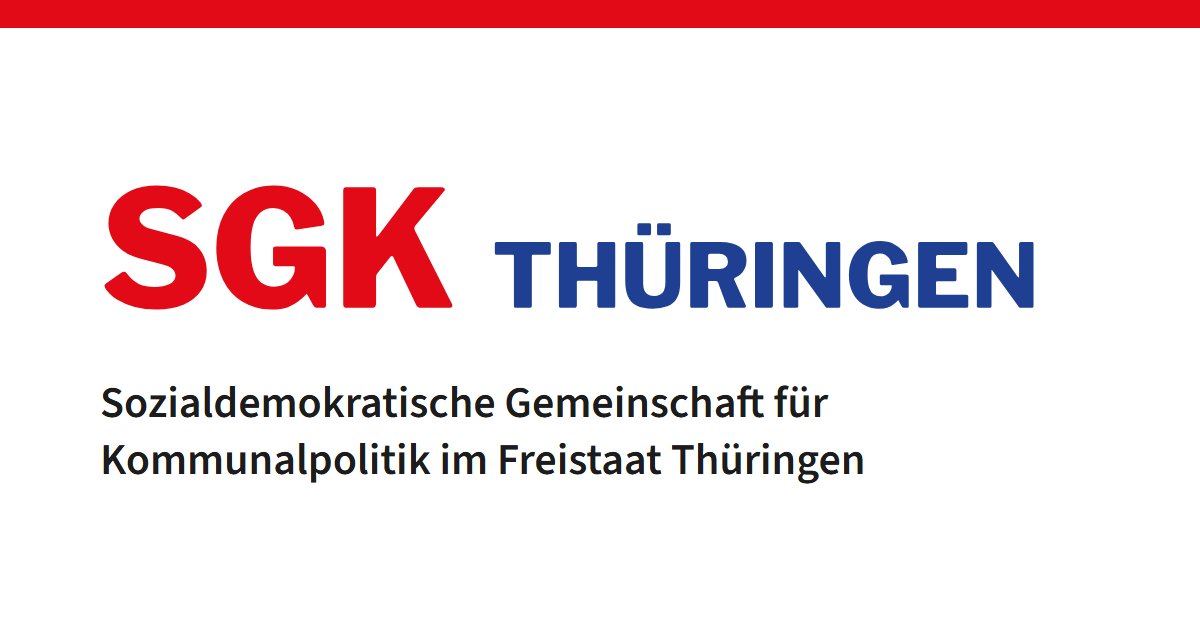
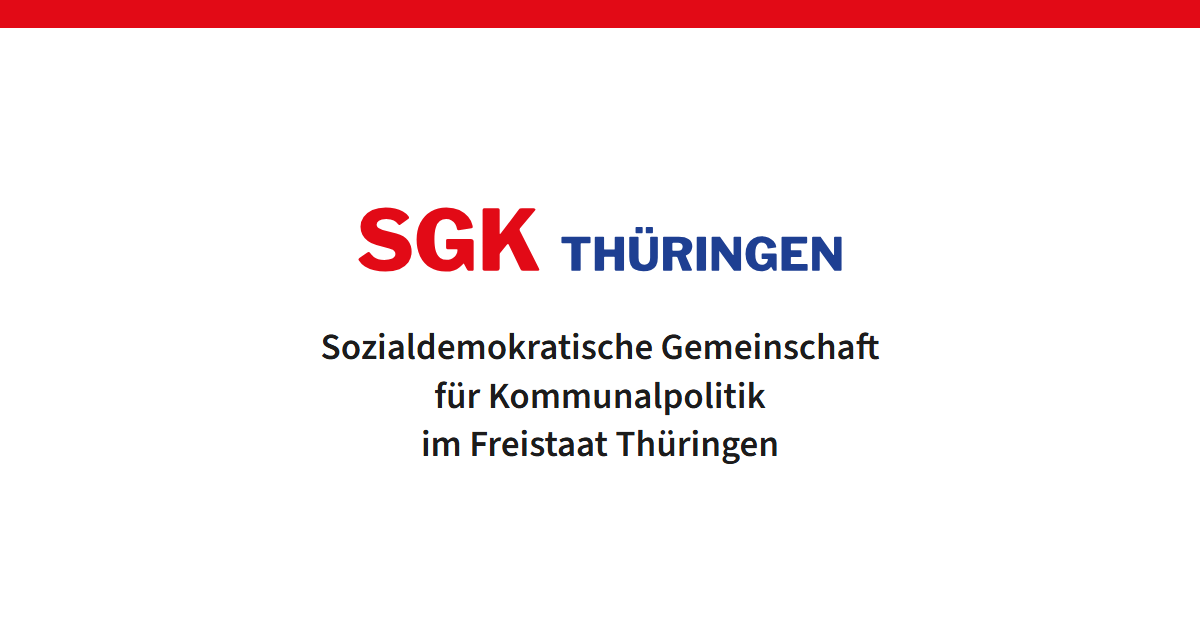
Vorschaubild: Inhalt in die Mitte gesetzt, og:image mit Version
Wortmarke und Text liegen jetzt im mittleren Quadrat 630x630, damit das Bild auch bei quadratischem Mittelzuschnitt (z. B. WhatsApp Web) vollständig lesbar ist. og:image trägt ?v=2, damit Vorschau-Caches das neue Bild laden.

Changed region(s): [[0.0925, 0.2714, 0.8633, 0.573], [0.0617, 0.6032, 0.74, 0.7841]]

diff --git a/index.html b/index.html
@@ -12,7 +12,7 @@
   <meta property="og:title" content="SGK Thüringen – Sozialdemokratische Gemeinschaft für Kommunalpolitik">
   <meta property="og:description" content="Die SGK Thüringen bringt sozialdemokratische Grundsätze in die Kommunalpolitik: Fachtagungen, Austausch, Beratung. Informiere dich und werde Mitglied.">
   <meta property="og:url" content="https://sgk-thueringen.de/">
-  <meta property="og:image" content="https://sgk-thueringen.de/assets/og-sgk-thueringen.png">
+  <meta property="og:image" content="https://sgk-thueringen.de/assets/og-sgk-thueringen.png?v=2">
   <meta property="og:image:width" content="1200">
   <meta property="og:image:height" content="630">
   <meta property="og:image:alt" content="SGK Thüringen – Sozialdemokratische Gemeinschaft für Kommunalpolitik">

diff --git a/jet-foerderpreis/index.html b/jet-foerderpreis/index.html
@@ -12,7 +12,7 @@
 <meta property="og:title" content="Förderpreis für Kinder- und Jugendbeteiligung – SGK Thüringen">
 <meta property="og:description" content="Kinder und Jugendliche haben Ideen, wollen mitreden und ihre Heimat aktiv mitgestalten. Genau dieses Engagement möchten wir sichtbar machen und fördern.">
 <meta property="og:url" content="https://sgk-thueringen.de/jet-foerderpreis/">
-<meta property="og:image" content="https://sgk-thueringen.de/assets/og-sgk-thueringen.png">
+<meta property="og:image" content="https://sgk-thueringen.de/assets/og-sgk-thueringen.png?v=2">
 <meta property="og:image:width" content="1200">
 <meta property="og:image:height" content="630">
 <meta property="og:image:alt" content="SGK Thüringen – Sozialdemokratische Gemeinschaft für Kommunalpolitik">

diff --git a/newsletter/index.html b/newsletter/index.html
@@ -12,7 +12,7 @@
 <meta property="og:title" content="Info-Brief – SGK Thüringen">
 <meta property="og:description" content="Der Info-Brief der SGK Thüringen nach § 12 der Satzung: Informationen zu kommunalpolitischen Entwicklungen, Veranstaltungen und Beschlüssen des Vorstands.">
 <meta property="og:url" content="https://sgk-thueringen.de/newsletter/">
-<meta property="og:image" content="https://sgk-thueringen.de/assets/og-sgk-thueringen.png">
+<meta property="og:image" content="https://sgk-thueringen.de/assets/og-sgk-thueringen.png?v=2">
 <meta property="og:image:width" content="1200">
 <meta property="og:image:height" content="630">
 <meta property="og:image:alt" content="SGK Thüringen – Sozialdemokratische Gemeinschaft für Kommunalpolitik">

diff --git a/barrierefreiheit/index.html b/barrierefreiheit/index.html
@@ -12,7 +12,7 @@
 <meta property="og:title" content="Barrierefreiheit – SGK Thüringen">
 <meta property="og:description" content="Erklärung zur Barrierefreiheit der Website der SGK Thüringen: angestrebter Standard WCAG 2.1, Stufe AA, und bereits umgesetzte Maßnahmen.">
 <meta property="og:url" content="https://sgk-thueringen.de/barrierefreiheit/">
-<meta property="og:image" content="https://sgk-thueringen.de/assets/og-sgk-thueringen.png">
+<meta property="og:image" content="https://sgk-thueringen.de/assets/og-sgk-thueringen.png?v=2">
 <meta property="og:image:width" content="1200">
 <meta property="og:image:height" content="630">
 <meta property="og:image:alt" content="SGK Thüringen – Sozialdemokratische Gemeinschaft für Kommunalpolitik">

diff --git a/datenschutz/index.html b/datenschutz/index.html
@@ -12,7 +12,7 @@
 <meta property="og:title" content="Datenschutz – SGK Thüringen">
 <meta property="og:description" content="Datenschutzerklärung der SGK Thüringen e.V.: Verantwortlicher, Hosting, Kontakt per E-Mail und Beitrittsformular. Keine Cookies, kein Tracking.">
 <meta property="og:url" content="https://sgk-thueringen.de/datenschutz/">
-<meta property="og:image" content="https://sgk-thueringen.de/assets/og-sgk-thueringen.png">
+<meta property="og:image" content="https://sgk-thueringen.de/assets/og-sgk-thueringen.png?v=2">
 <meta property="og:image:width" content="1200">
 <meta property="og:image:height" content="630">
 <meta property="og:image:alt" content="SGK Thüringen – Sozialdemokratische Gemeinschaft für Kommunalpolitik">

diff --git a/verein/index.html b/verein/index.html
@@ -12,7 +12,7 @@
 <meta property="og:title" content="Verein – SGK Thüringen">
 <meta property="og:description" content="Wer wir sind und was wir tun: Die SGK Thüringen unterstützt, berät, vertritt, vernetzt und bildet weiter – für sozialdemokratische Kommunalpolitik.">
 <meta property="og:url" content="https://sgk-thueringen.de/verein/">
-<meta property="og:image" content="https://sgk-thueringen.de/assets/og-sgk-thueringen.png">
+<meta property="og:image" content="https://sgk-thueringen.de/assets/og-sgk-thueringen.png?v=2">
 <meta property="og:image:width" content="1200">
 <meta property="og:image:height" content="630">
 <meta property="og:image:alt" content="SGK Thüringen – Sozialdemokratische Gemeinschaft für Kommunalpolitik">

diff --git a/verein/vorstand/index.html b/verein/vorstand/index.html
@@ -12,7 +12,7 @@
 <meta property="og:title" content="Landesvorstand – SGK Thüringen">
 <meta property="og:description" content="Der Landesvorstand der SGK Thüringen im Überblick: Mitglieder mit Funktion und Ort. Erreichbar ist er über die Geschäftsstelle.">
 <meta property="og:url" content="https://sgk-thueringen.de/verein/vorstand/">
-<meta property="og:image" content="https://sgk-thueringen.de/assets/og-sgk-thueringen.png">
+<meta property="og:image" content="https://sgk-thueringen.de/assets/og-sgk-thueringen.png?v=2">
 <meta property="og:image:width" content="1200">
 <meta property="og:image:height" content="630">
 <meta property="og:image:alt" content="SGK Thüringen – Sozialdemokratische Gemeinschaft für Kommunalpolitik">

diff --git a/kontakt/index.html b/kontakt/index.html
@@ -12,7 +12,7 @@
 <meta property="og:title" content="Kontakt – SGK Thüringen">
 <meta property="og:description" content="Kontakt zur Geschäftsstelle der SGK Thüringen in Erfurt: Anschrift, Telefon und E-Mail für Mitgliedschaft, Beiträge und weitere Anliegen.">
 <meta property="og:url" content="https://sgk-thueringen.de/kontakt/">
-<meta property="og:image" content="https://sgk-thueringen.de/assets/og-sgk-thueringen.png">
+<meta property="og:image" content="https://sgk-thueringen.de/assets/og-sgk-thueringen.png?v=2">
 <meta property="og:image:width" content="1200">
 <meta property="og:image:height" content="630">
 <meta property="og:image:alt" content="SGK Thüringen – Sozialdemokratische Gemeinschaft für Kommunalpolitik">

diff --git a/verein/satzung/index.html b/verein/satzung/index.html
@@ -12,7 +12,7 @@
 <meta property="og:title" content="Satzung – SGK Thüringen">
 <meta property="og:description" content="Die Satzung der SGK Thüringen in der Fassung des Beschlusses der Mitgliedervollversammlung vom 31. Januar 2009 als PDF-Download.">
 <meta property="og:url" content="https://sgk-thueringen.de/verein/satzung/">
-<meta property="og:image" content="https://sgk-thueringen.de/assets/og-sgk-thueringen.png">
+<meta property="og:image" content="https://sgk-thueringen.de/assets/og-sgk-thueringen.png?v=2">
 <meta property="og:image:width" content="1200">
 <meta property="og:image:height" content="630">
 <meta property="og:image:alt" content="SGK Thüringen – Sozialdemokratische Gemeinschaft für Kommunalpolitik">

diff --git a/emil-boehme-preis/index.html b/emil-boehme-preis/index.html
@@ -12,7 +12,7 @@
 <meta property="og:title" content="Emil-Böhme-Preis – SGK Thüringen">
 <meta property="og:description" content="Emil-Böhme-Preis der SGK Thüringen — Auszeichnung für langjährige kommunalpolitische Verdienste.">
 <meta property="og:url" content="https://sgk-thueringen.de/emil-boehme-preis/">
-<meta property="og:image" content="https://sgk-thueringen.de/assets/og-sgk-thueringen.png">
+<meta property="og:image" content="https://sgk-thueringen.de/assets/og-sgk-thueringen.png?v=2">
 <meta property="og:image:width" content="1200">
 <meta property="og:image:height" content="630">
 <meta property="og:image:alt" content="SGK Thüringen – Sozialdemokratische Gemeinschaft für Kommunalpolitik">

diff --git a/nachwuchsakademie/index.html b/nachwuchsakademie/index.html
@@ -12,7 +12,7 @@
 <meta property="og:title" content="NachwuchsAkademie – SGK Thüringen">
 <meta property="og:description" content="Sozialdemokratische NachwuchsAkademie Thüringen — Nachwuchsförderung in der Kommunalpolitik.">
 <meta property="og:url" content="https://sgk-thueringen.de/nachwuchsakademie/">
-<meta property="og:image" content="https://sgk-thueringen.de/assets/og-sgk-thueringen.png">
+<meta property="og:image" content="https://sgk-thueringen.de/assets/og-sgk-thueringen.png?v=2">
 <meta property="og:image:width" content="1200">
 <meta property="og:image:height" content="630">
 <meta property="og:image:alt" content="SGK Thüringen – Sozialdemokratische Gemeinschaft für Kommunalpolitik">

diff --git a/mitglied-werden/index.html b/mitglied-werden/index.html
@@ -12,7 +12,7 @@
 <meta property="og:title" content="Mitglied werden – SGK Thüringen">
 <meta property="og:description" content="Mitglied der SGK Thüringen werden — in wenigen Schritten über den geführten Beitritt.">
 <meta property="og:url" content="https://sgk-thueringen.de/mitglied-werden/">
-<meta property="og:image" content="https://sgk-thueringen.de/assets/og-sgk-thueringen.png">
+<meta property="og:image" content="https://sgk-thueringen.de/assets/og-sgk-thueringen.png?v=2">
 <meta property="og:image:width" content="1200">
 <meta property="og:image:height" content="630">
 <meta property="og:image:alt" content="SGK Thüringen – Sozialdemokratische Gemeinschaft für Kommunalpolitik">
